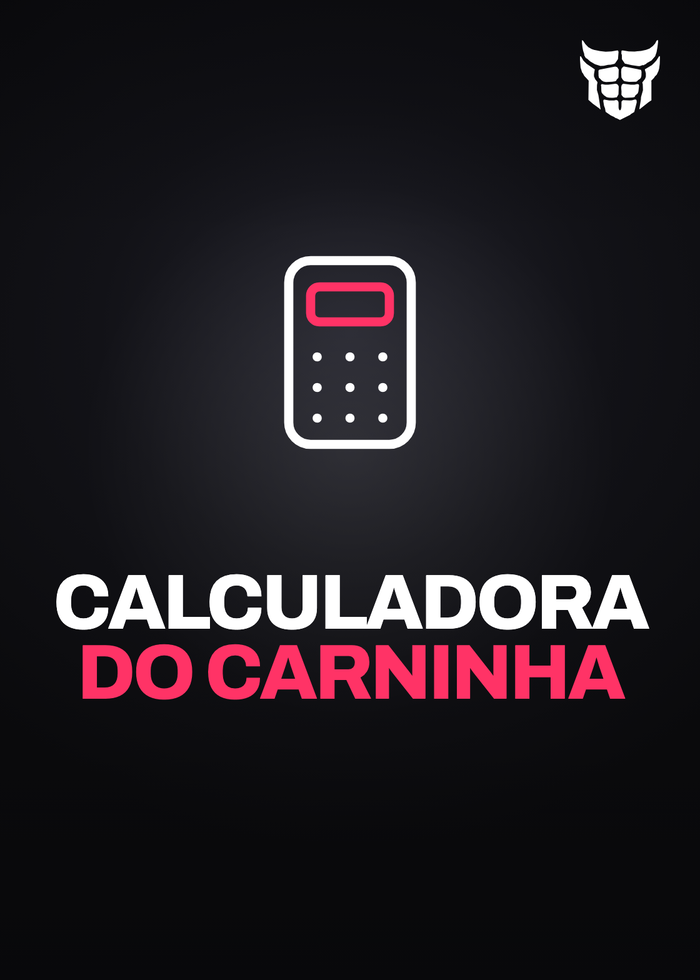
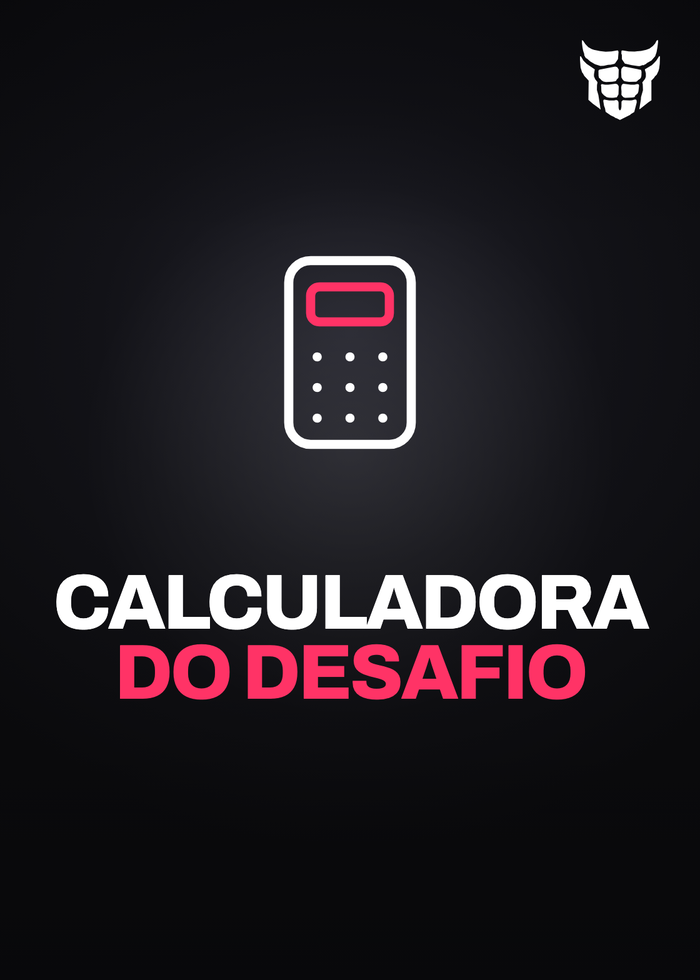
Renomeia para Calculadora do desafio

Changed region(s): [[0.12, 0.6429, 0.9, 0.7347]]

diff --git a/index.html b/index.html
@@ -13,7 +13,7 @@
 <link rel="preconnect" href="https://fonts.googleapis.com">
 <link rel="preconnect" href="https://fonts.gstatic.com" crossorigin>
 <link href="https://fonts.googleapis.com/css2?family=Archivo:wght@300;600;700;800&family=Inter:wght@400;500;600;700&display=swap" rel="stylesheet">
-<link rel="stylesheet" href="styles.css?v=64">
+<link rel="stylesheet" href="styles.css?v=65">
 <script>document.documentElement.className = document.documentElement.className.replace('no-js','js');</script>
 </head>
 <body>
@@ -168,8 +168,8 @@
     </div>
     <div class="amostras amostras--recebe">
       <figure class="frame frame--mock" data-reveal>
-        <img src="assets/mockups/calculadora.webp" alt="Calculadora do Carninha aberta no celular, mostrando o gasto calórico do dia e as faixas de referência" loading="lazy" width="1400" height="875">
-        <figcaption class="frame__tag">Calculadora do Carninha</figcaption>
+        <img src="assets/mockups/calculadora.webp" alt="Calculadora do desafio aberta no celular, mostrando o gasto calórico do dia e as faixas de referência" loading="lazy" width="1400" height="875">
+        <figcaption class="frame__tag">Calculadora do desafio</figcaption>
       </figure>
 
       <figure class="frame frame--mock" data-reveal style="--d:90ms">
@@ -291,7 +291,7 @@
             <li>
               <svg class="ico" viewBox="0 0 24 24"><rect x="4" y="2.5" width="16" height="19" rx="3"/><path d="M8 7h8"/><path d="M8.5 12h0M12 12h0M15.5 12h0M8.5 16.5h0M12 16.5h0M15.5 16.5h0"/></svg>
               <div>
-                <b>Calculadora do Carninha</b>
+                <b>Calculadora do desafio</b>
                 <span>Você coloca peso, altura, idade e rotina e ela te mostra quantas calorias o seu corpo gasta por dia, e quanto comer pra secar ou pra ganhar massa.</span>
               </div>
             </li>
@@ -426,6 +426,6 @@
   </div>
 </div>
 
-<script src="script.js?v=64"></script>
+<script src="script.js?v=65"></script>
 </body>
 </html>

diff --git a/_capas/calculadora.html b/_capas/calculadora.html
@@ -47,7 +47,7 @@ html,body{width:560px;height:784px;overflow:hidden;background:#07070a}
     <path d="M16.5 39h0M24 39h0M31.5 39h0"></path>
   </svg>
 
-  <div class="txt"><b>Calculadora<em>do Carninha</em></b></div>
+  <div class="txt"><b>Calculadora<em>do desafio</em></b></div>
 </div>
 </body>
 </html>
